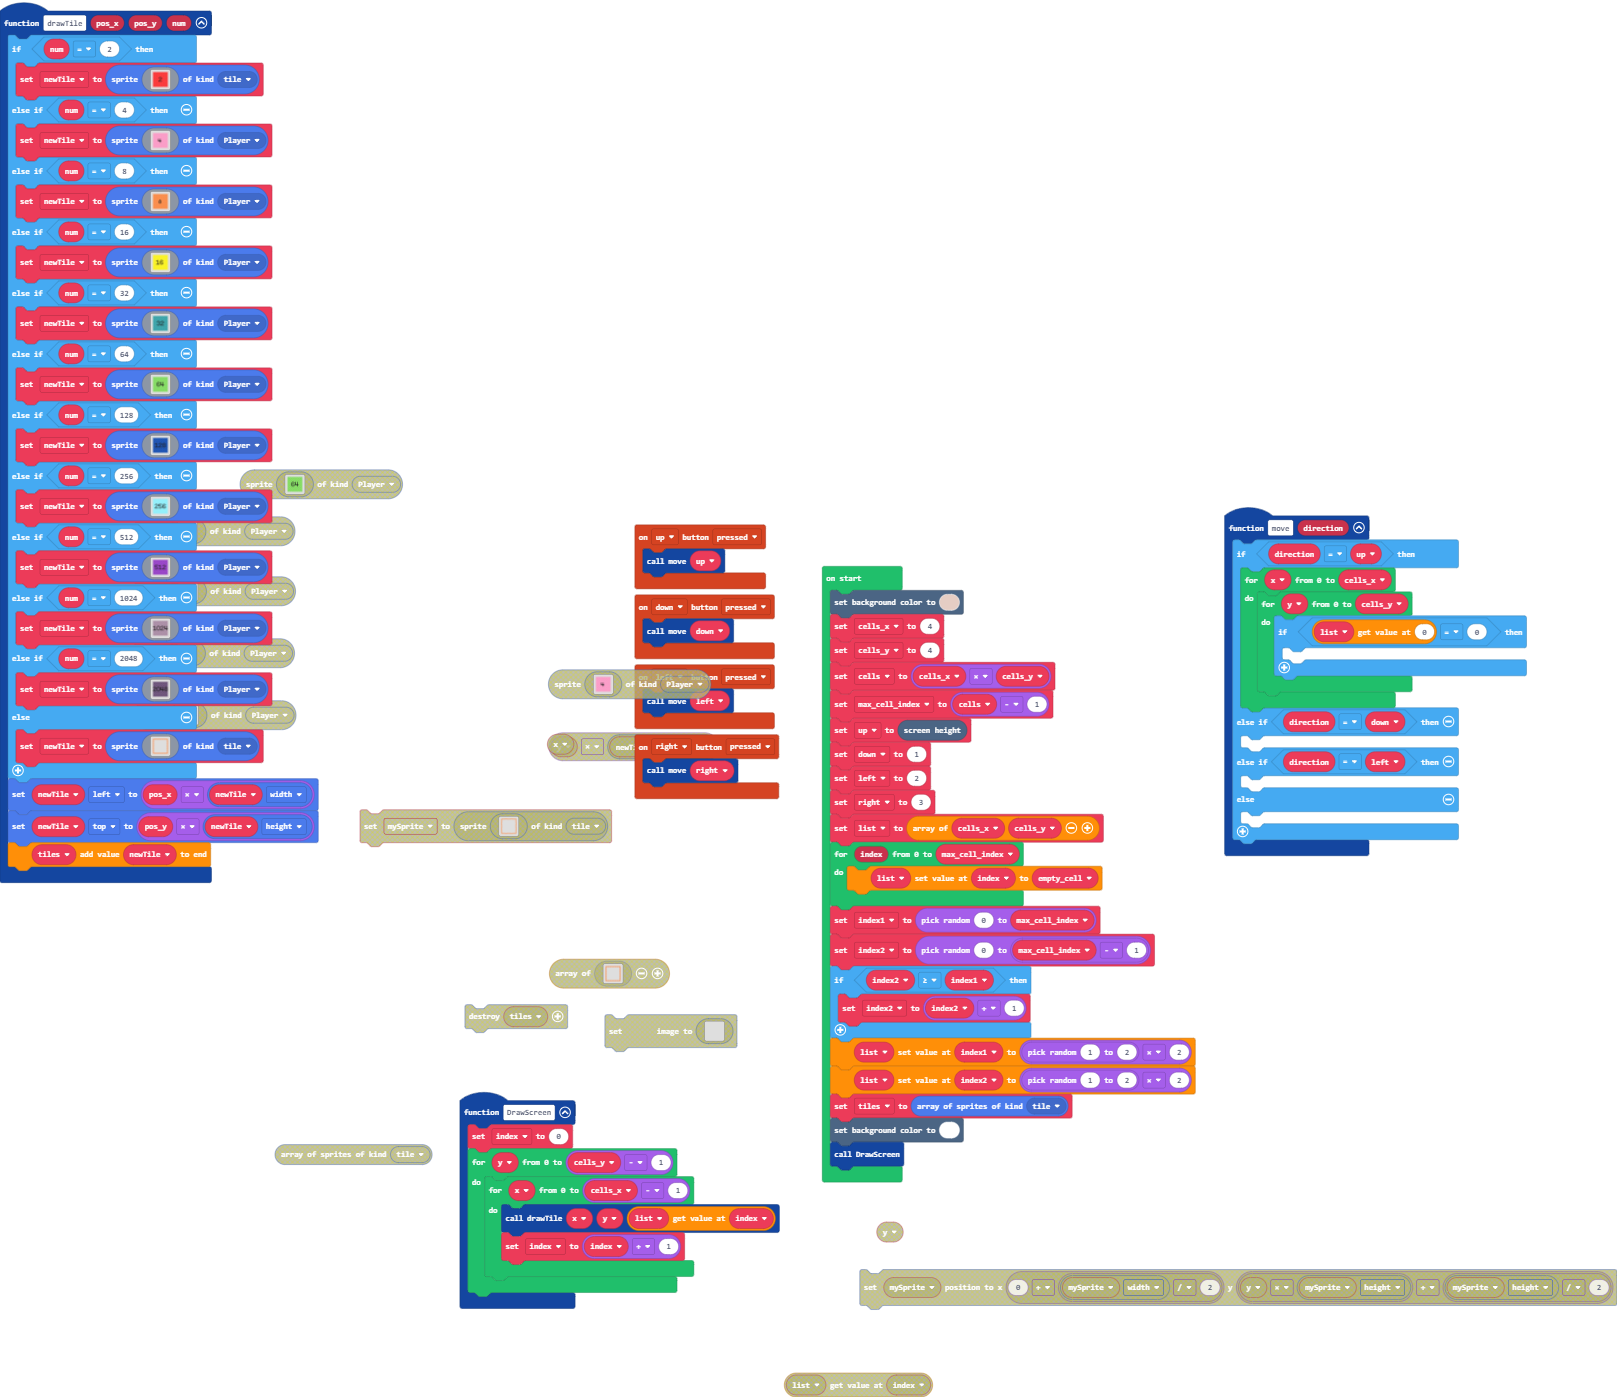
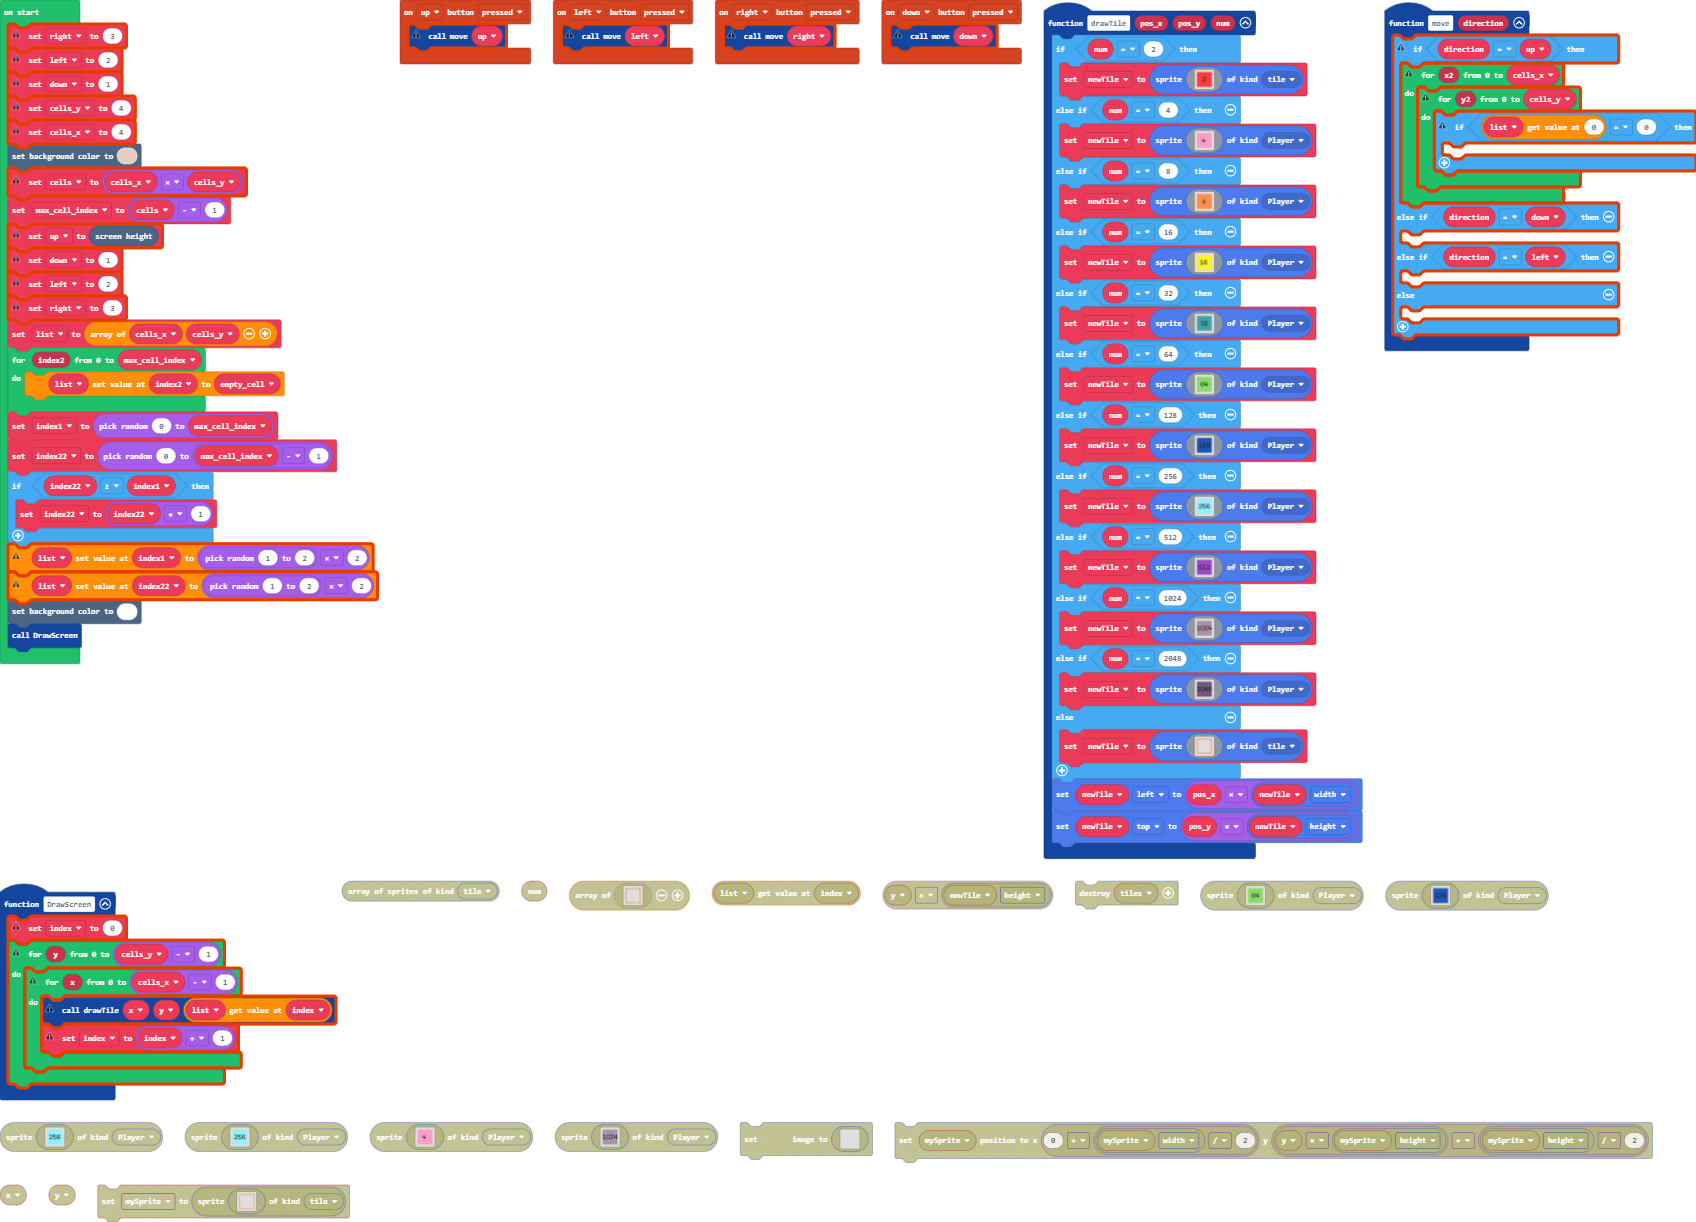
Update pxt.json, main.blocks, main.ts

diff --git a/main.ts b/main.ts
@@ -362,12 +362,11 @@ function drawTile (pos_x: number, pos_y: number, num: number) {
     }
     newTile.left = pos_x * newTile.width
     newTile.top = pos_y * newTile.height
-    tiles2.push(newTile)
 }
 function move (direction: number) {
     if (direction == up) {
-        for (let x = 0; x <= cells_x; x++) {
-            for (let y = 0; y <= cells_y; y++) {
+        for (let x2 = 0; x2 <= cells_x; x2++) {
+            for (let y2 = 0; y2 <= cells_y; y2++) {
                 if (list[0] == 0) {
                 	
                 }
@@ -383,35 +382,28 @@ function move (direction: number) {
 }
 let newTile: Sprite = null
 let index = 0
-let tiles2: Sprite[] = []
 let list: number[] = []
-let right = 0
-let left = 0
-let down = 0
 let up = 0
-let cells_y = 0
-let cells_x = 0
+let down = 1
+let left = 2
+let right = 3
+let cells_x = 4
+let cells_y = 4
+let empty_cell = 0
 scene.setBackgroundColor(13)
-cells_x = 4
-cells_y = 4
 let cells = cells_x * cells_y
 let max_cell_index = cells - 1
 up = scene.screenHeight()
-down = 1
-left = 2
-right = 3
 list = [cells_x, cells_y]
-for (let index = 0; index <= max_cell_index; index++) {
-    let empty_cell = 0
-    list[index] = empty_cell
+for (let index2 = 0; index2 <= max_cell_index; index2++) {
+    list[index2] = empty_cell
 }
 let index1 = randint(0, max_cell_index)
-let index2 = randint(0, max_cell_index - 1)
-if (index2 >= index1) {
-    index2 = index2 + 1
+let index22 = randint(0, max_cell_index - 1)
+if (index22 >= index1) {
+    index22 = index22 + 1
 }
 list[index1] = randint(1, 2) * 2
-list[index2] = randint(1, 2) * 2
-tiles2 = sprites.allOfKind(SpriteKind.tile)
+list[index22] = randint(1, 2) * 2
 scene.setBackgroundColor(1)
 DrawScreen()
